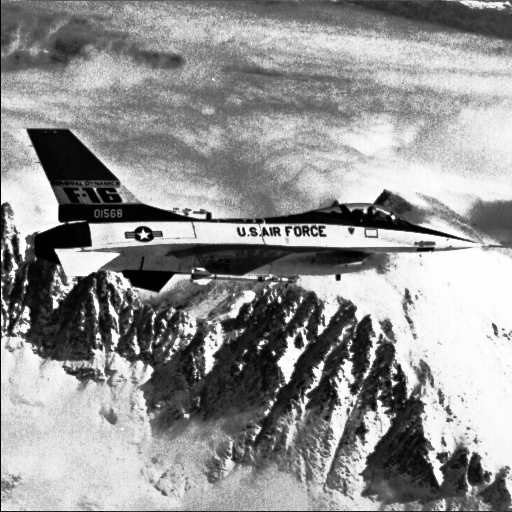
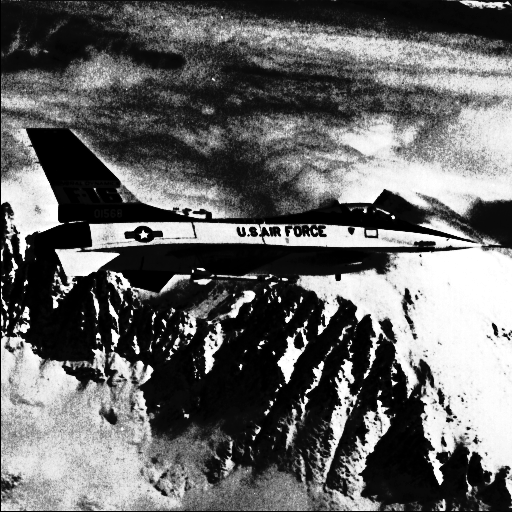
Corrected the histogram equalization function. Filter display mode updated.

diff --git a/Photoshop/src/photoshop.py b/Photoshop/src/photoshop.py
@@ -124,7 +124,7 @@ class App(customtkinter.CTk):
             self.image_resized = self.image_open.resize((int(float(self.image_entry_x.get())), int(float(self.image_entry_y.get()))), Image.ANTIALIAS)
             self.image = ImageTk.PhotoImage(self.image_resized)
             self.main_display.configure(anchor="center", image=self.image)
-            self.delete_image_size()
+            # self.delete_image_size()
         except Exception as e:
             print(e)
 
@@ -133,64 +133,24 @@ class App(customtkinter.CTk):
         self.image_entry_y.delete(0, customtkinter.END)
 
 
-    def login(self):
-        print("Login button clicked")
-
-    def uniform_filtered(self):
-        self.img = img_as_ubyte(io.imread(PATH + self.image_choice.get(), as_gray=True))
-        self.uniform_filter = unsharp_mask(self.img)
-        print(f'Image shape: {self.img.shape}, mean: {self.img.mean()}, max: {self.img.max()}, min: {self.img.min()}')
-        with open(PATH + 'image.txt', 'w') as f:
-            for item in self.img:
-                f.writelines(str(item))
-        # print(self.uniform_filter)
-        plt.imshow(self.uniform_filter, cmap='Greys')
-        plt.show()
-
-    def gaussian_filtered(self):
-        self.img = img_as_ubyte(io.imread(PATH + self.image_choice.get(), as_gray=True))
-        self.gaussian_filter = gaussian(self.img, sigma=GAUSSIAN_FILTERED_SIGMA)
-        plt.imshow(self.gaussian_filter, cmap='Greys')
-        plt.show()
-
-    def median_filtered(self):
-        self.img = img_as_ubyte(io.imread(PATH + self.image_choice.get(), as_gray=False))
-        self.median_filter = median(self.img)
-        plt.imshow(self.median_filter)
-        plt.show()
-
-    def sobel_filtered(self):
-        self.img = img_as_ubyte(io.imread(PATH + self.image_choice.get(), as_gray=False))
-        self.sobel_filter = sobel(self.img)
-        plt.imshow(self.sobel_filter)
-        plt.show()
-
-    def roberts_filter(self):
-        self.img = img_as_ubyte(io.imread(PATH + self.image_choice.get(), as_gray=True))
-        self.roberts = roberts(self.img)
-        plt.imshow(self.roberts, cmap='Greys')
-        plt.show()
-
-    def canny_edge_filter(self):
-        self.img = img_as_ubyte(io.imread(PATH + self.image_choice.get(), as_gray=True))
-        self.canny_edge = canny(self.img)
-        plt.imshow(self.canny_edge, cmap='Greys')
-        plt.show()
-
-    def deconvolution_filter(self):
-        self.psf = np.ones((3, 3)) / 9
-        self.img = img_as_ubyte(io.imread(PATH + self.image_choice.get(), as_gray=True))
-        self.deconvolved = restoration.unsupervised_wiener(self.img, self.psf)
-        plt.imshow(self.deconvolved, cmap='Greys')
-        plt.show()
-
     def negate_filter(self):
         self.img = img_as_ubyte(io.imread(PATH + self.image_choice.get(), as_gray=True))
         self.negate_filter = 255 - self.img
+
+        fig, axes = plt.subplots(1, 2, figsize=(10, 5), facecolor='none')
+        fig.subplots_adjust(left=0.05, right=0.95, bottom=0.1, top=0.9, wspace=0.2)
+        axes[0].imshow(self.img)
+        axes[1].imshow(self.gamma_corrected, cmap='gray')
+        axes[0].axis('off')
+        axes[1].axis('off')
+        axes[0].set_title('')
+        axes[1].set_title('')
         self.image_file_name = self.image_choice.get().split('.')[0]
-        # self.plot_image(self.img, image_name='_'.join([self.image_file_name,'original.png']))
-        self.plot_image(self.negate_filter, image_name='_'.join([self.image_file_name,'negate.png']))
-        self.display_image_function(''.join([PATH, self.image_file_name, '_negate.png']))
+        self.image_path = ''.join([PATH, self.image_file_name,'_negate.png'])
+        plt.savefig(self.image_path)
+
+        self.plot_image(self.negate_filter, image_name='_'.join([self.image_file_name,'negate_only.png']))
+        self.display_image_function(''.join([PATH, self.image_file_name, '_negate_only.png']))
 
 
     def gamma_correction_filter(self):
@@ -203,10 +163,21 @@ class App(customtkinter.CTk):
             self.gamma = float(self.right_entry.get())
         self.img = img_as_ubyte(io.imread(PATH + self.image_choice.get(), as_gray=True))
         self.gamma_corrected = (self.img / 255) ** self.gamma * 255
+
+        fig, axes = plt.subplots(1, 2, figsize=(10, 5), facecolor='none')
+        fig.subplots_adjust(left=0.05, right=0.95, bottom=0.1, top=0.9, wspace=0.2)
+        axes[0].imshow(self.img)
+        axes[1].imshow(self.gamma_corrected, cmap='gray')
+        axes[0].axis('off')
+        axes[1].axis('off')
+        axes[0].set_title('')
+        axes[1].set_title('')
         self.image_file_name = self.image_choice.get().split('.')[0]
-        # self.plot_image(self.img, image_name='_'.join([self.image_file_name,'original.png']))
-        self.plot_image(self.gamma_corrected,  image_name='_'.join([self.image_file_name,'gamma_corrected.png']))
-        self.display_image_function(''.join([PATH, self.image_file_name, '_gamma_corrected.png']))
+        self.image_path = ''.join([PATH, self.image_file_name,'_gamma_corrected.png'])
+        plt.savefig(self.image_path)
+
+        self.plot_image(self.gamma_corrected,  image_name='_'.join([self.image_file_name,'gamma_corrected_only.png']))
+        self.display_image_function(''.join([PATH, self.image_file_name, '_gamma_corrected_only.png']))
 
     def log_transformation_filter(self):
         ## s = c * log(1 + r)
@@ -215,10 +186,21 @@ class App(customtkinter.CTk):
             self.c = float(self.right_entry.get())
         self.img = img_as_ubyte(io.imread(PATH + self.image_choice.get(), as_gray=True))
         self.log_corrected = self.c * np.log(1 + self.img)
+
+        fig, axes = plt.subplots(1, 2, figsize=(10, 5), facecolor='none')
+        fig.subplots_adjust(left=0.05, right=0.95, bottom=0.1, top=0.9, wspace=0.2)
+        axes[0].imshow(self.img)
+        axes[1].imshow(self.log_corrected, cmap='gray')
+        axes[0].axis('off')
+        axes[1].axis('off')
+        axes[0].set_title('')
+        axes[1].set_title('')
         self.image_file_name = self.image_choice.get().split('.')[0]
-        # self.plot_image(self.img, image_name='_'.join([self.image_file_name,'original.png']))
-        self.plot_image(self.log_corrected, image_name='_'.join([self.image_file_name,'logarithmic_corrected.png']))
-        self.display_image_function(''.join([PATH, self.image_file_name, '_logarithmic_corrected.png']))
+        self.image_path = ''.join([PATH, self.image_file_name,'_logarithmic_corrected.png'])
+        plt.savefig(self.image_path)
+
+        self.plot_image(self.log_corrected, image_name='_'.join([self.image_file_name,'logarithmic_corrected_only.png']))
+        self.display_image_function(''.join([PATH, self.image_file_name, '_logarithmic_corrected_only.png']))
 
     def gray_filter(self):
         self.gamma = 1
@@ -310,18 +292,38 @@ class App(customtkinter.CTk):
     def histogram_equalization(self):
         self.img = img_as_ubyte(io.imread(PATH + self.image_choice.get(), as_gray=True))
 
-        self.hist, self.bins = np.histogram(self.img, bins=256, range=(self.img.min(), self.img.max()))
+        # Calculate the PDF (probability density function)
+        self.pdf = {}
+        for row in range(self.img.shape[0]):
+            for col in range(self.img.shape[1]):
+                pixel_value = self.img[row, col]
+                if pixel_value not in self.pdf:
+                    self.pdf[pixel_value] = (0, 0)
+                pdf_value, pixel_count = self.pdf[pixel_value]
+                pdf_value += 1 / self.img.size
+                pixel_count += 1
+                self.pdf[pixel_value] = (pdf_value, pixel_count)
 
+        for key, value in self.pdf.items():
+            pixel_value = key
+            pdf_value = value[0]
+            pixel_count = value[1]
+            print(f"Pixel value: {pixel_value}, PDF value: {pdf_value}, Pixel count: {pixel_count}")
 
-        cdf = self.hist.cumsum()
-        cdf_normalized = cdf / cdf.max()
-        cdf_mapped = np.round(cdf_normalized * 255).astype(np.uint8)
+        # Calculate the CDF (cumulative distribution function)
+        self.cdf = {}
+        cdf_values = []
+        cdf_sum = 0
+        for i in range(256):
+            if i in self.pdf:
+                pdf_value = self.pdf[i][0]
+                pixel_count = self.pdf[i][1]
+                cdf_sum += pdf_value * pixel_count
+            self.cdf[i] = cdf_sum
+            cdf_values.append(cdf_sum)
 
-        # Map each pixel value to its new value using the CDF
-        self.img_equalized = np.interp(self.img.flatten(), self.bins[:-1], cdf_mapped)
-
-        # Reshape the equalized image and convert it back to 8-bit unsigned integer
-        self.img_equalized = self.img_equalized.reshape(self.img.shape).astype(np.uint8)
+        # Equalize image
+        self.img_equalized = np.interp(self.img.flatten(), list(self.cdf.keys()), list(self.cdf.values())).reshape(self.img.shape)
 
         # Display the original and equalized images side by side
         fig, axes = plt.subplots(1, 2, figsize=(10, 5), facecolor='none')
